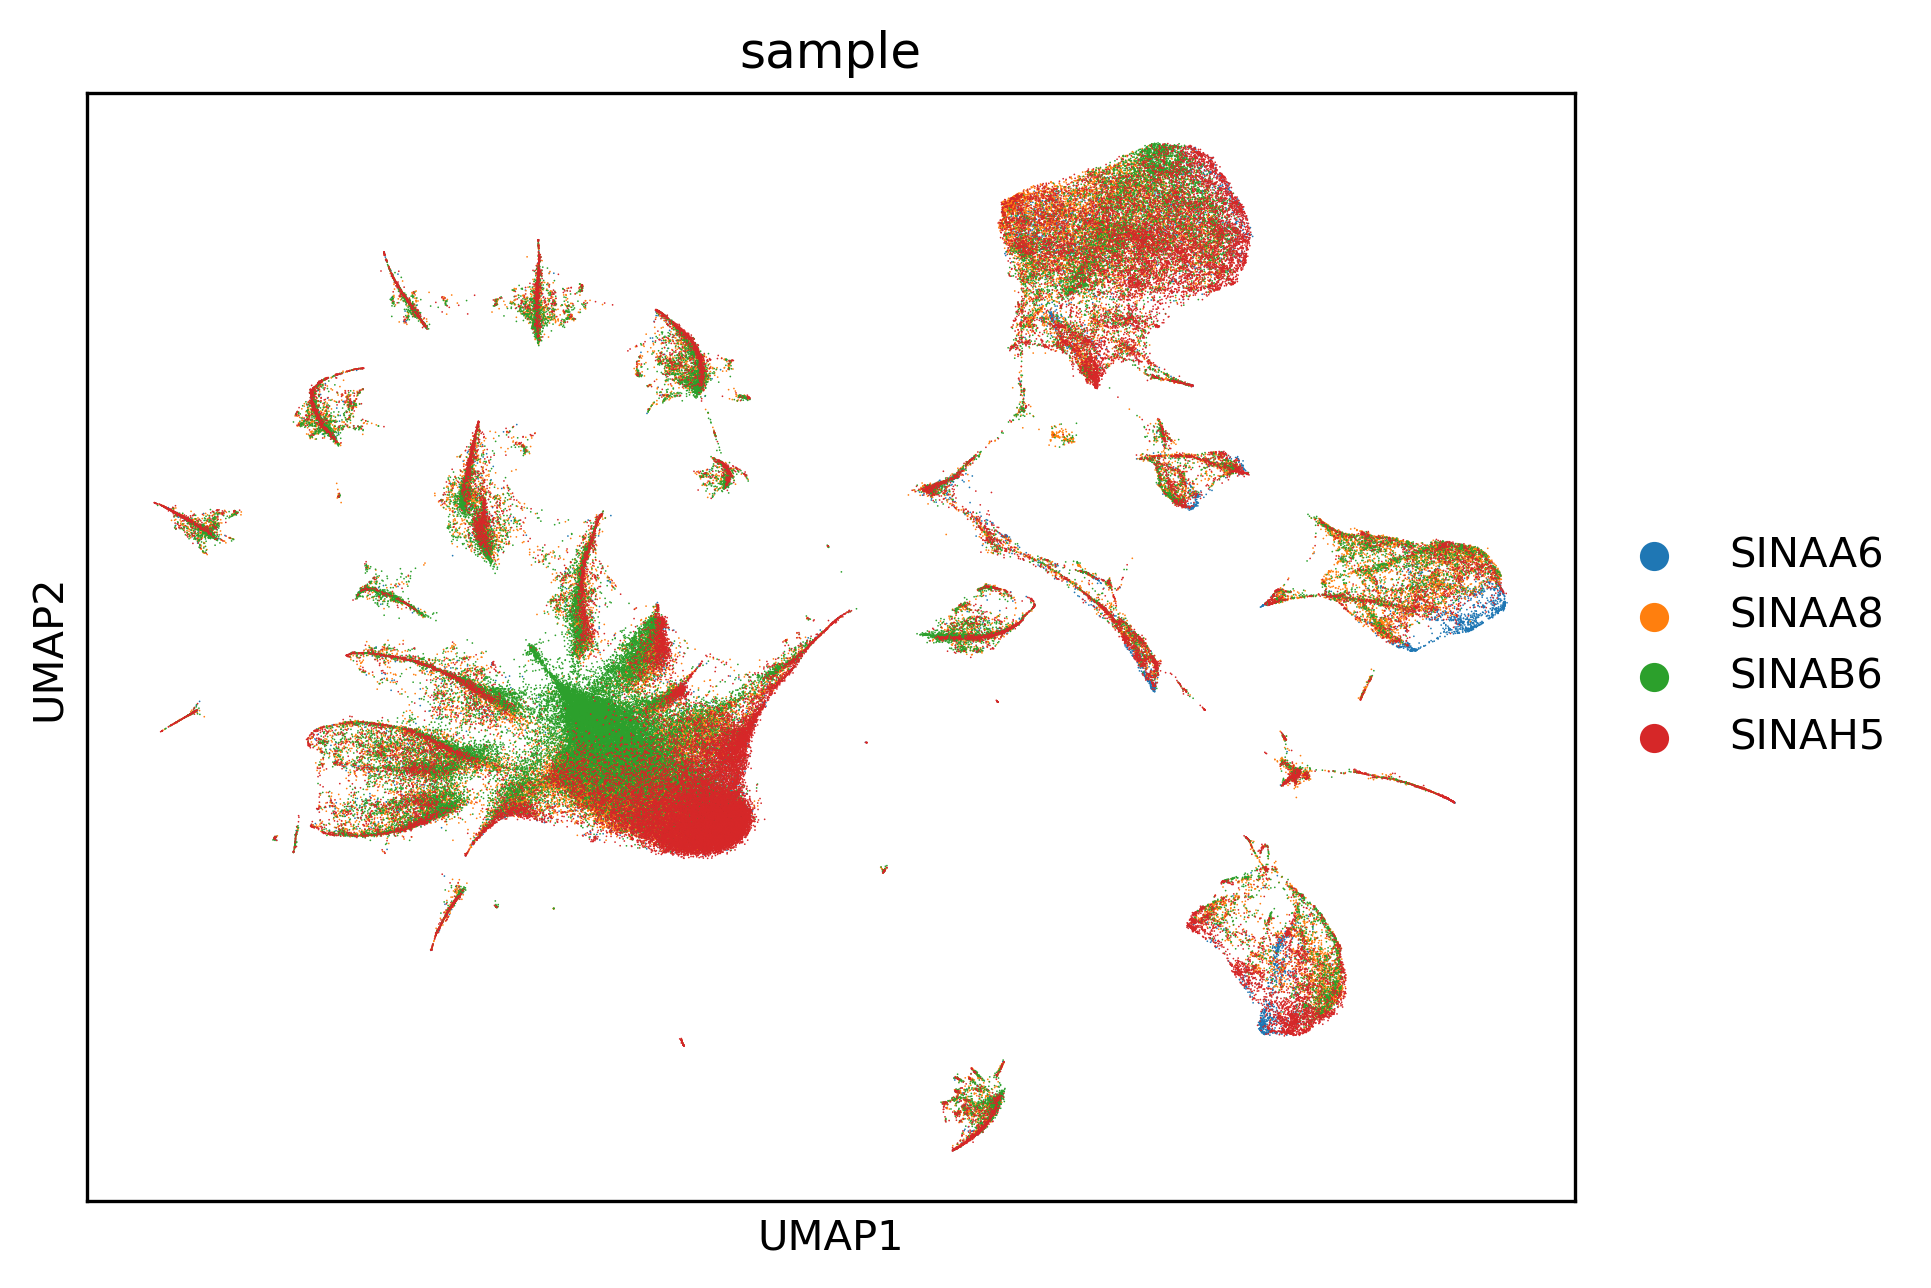
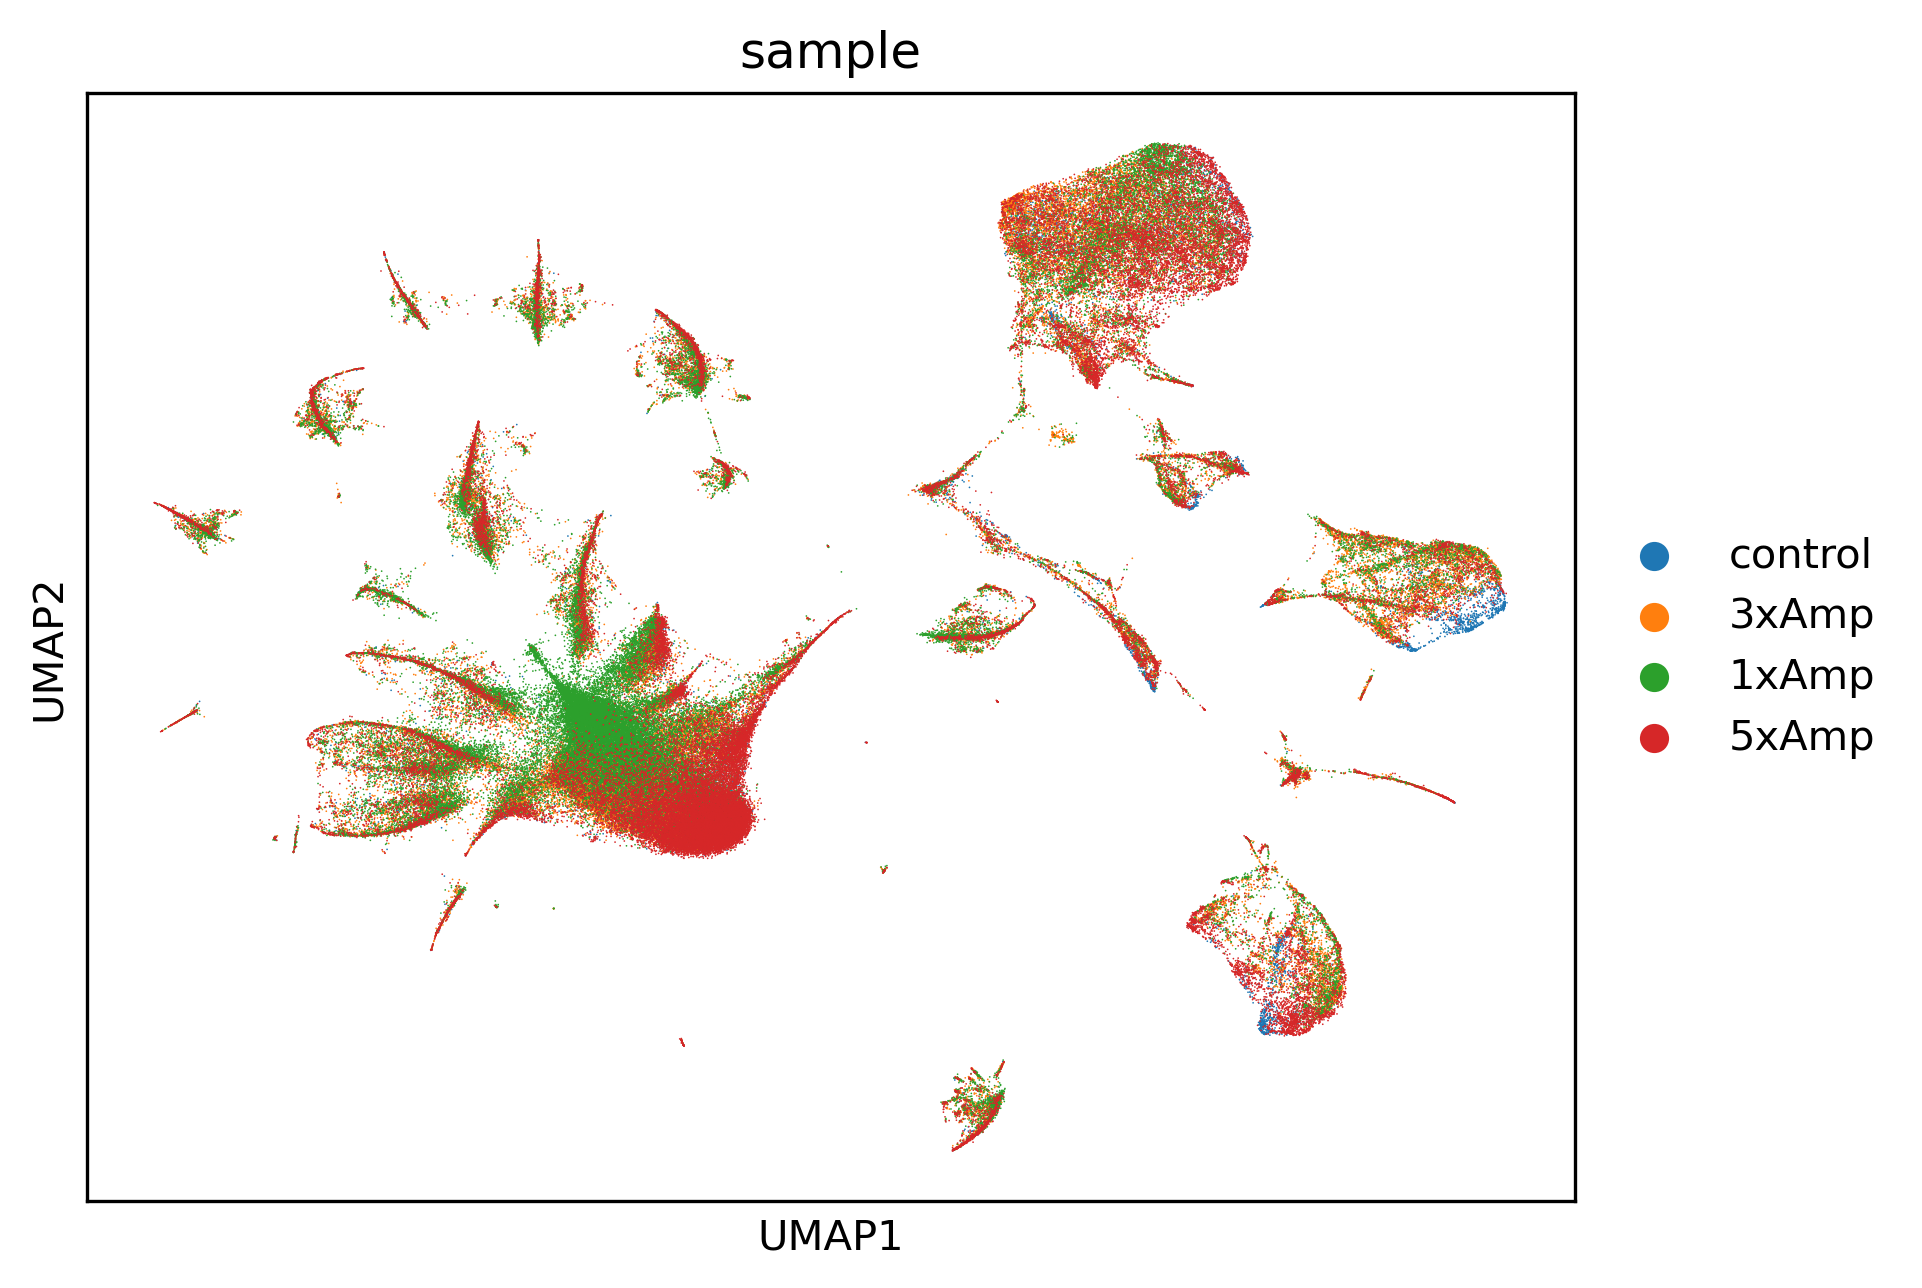
rename samples - update analysis and fix diffPeaks scripts

diff --git a/src/diffPeaks.py b/src/diffPeaks.py
@@ -15,7 +15,7 @@ def main():
     parser.add_argument("--output", required=True, help="Output h5ad file with diff test results")
     parser.add_argument("--group1", required=True, help="Group label (sample name or cluster)")
     parser.add_argument("--group2", required=True, help="Group label (sample name or cluster)")
-    parser.add_argument("--prefix", required=True, help="Prefix for output figures")
+    parser.add_argument("--prefix", required=True, help="Prefix for output figures and CSV files")
     parser.add_argument("--pval-cutoff", type=float, default=0.05, help="Adjusted p-value cutoff (default: 0.05)")
     parser.add_argument("--logfc-cutoff", type=float, default=0.5, help="Log2 fold change cutoff (default: 0.5)")
     args = parser.parse_args()
@@ -38,7 +38,7 @@ def main():
     print(f"Group1 ({args.group1}): {len(group1_idx)} cells")
     print(f"Group2 ({args.group2}): {len(group2_idx)} cells")
 
-    # Run differential test
+    # Run differential test (solver removed)
     print("Running differential accessibility test...")
     res = snap.tl.diff_test(
         adata,
@@ -48,26 +48,36 @@ def main():
         direction="both",
         min_log_fc=args.logfc_cutoff,
         min_pct=0.05
-        # solver removed
     )
 
-    # Store results in uns
-    adata.uns["diffPeaks"] = res
+    adata.uns["diff_test"] = res
+
+    # Save all results to CSV
+    res.write_csv(f"{args.prefix}_all_results.csv")
+    print(f"Saved all results to {args.prefix}_all_results.csv")
 
     # Generate volcano plot
     print("Generating volcano plot...")
     pval_cut = args.pval_cutoff
     logfc_cut = args.logfc_cutoff
 
-    # Use correct column names: 'pvalue_adj' and 'log2_fc'
-    res_sig = res[(res["pvalue_adj"] < pval_cut) & (np.abs(res["log2_fc"]) > logfc_cut)]
-    up = res_sig[res_sig["log2_fc"] > 0]
-    down = res_sig[res_sig["log2_fc"] < 0]
+    # Correct column names from SnapATAC2 tutorial
+    pval_col = "adjusted p-value"
+    logfc_col = "log2(fold_change)"
+
+    # Filter significant results
+    res_sig = res.filter((res[pval_col] < pval_cut) & (np.abs(res[logfc_col]) > logfc_cut))
+    up = res_sig.filter(res_sig[logfc_col] > 0)
+    down = res_sig.filter(res_sig[logfc_col] < 0)
+
+    # Save significant results to CSV
+    res_sig.write_csv(f"{args.prefix}_significant_results.csv")
+    print(f"Saved significant results to {args.prefix}_significant_results.csv")
 
     plt.figure(figsize=(8, 6))
-    plt.scatter(res["log2_fc"], -np.log10(res["pvalue_adj"]), s=2, alpha=0.3, color="gray")
-    plt.scatter(up["log2_fc"], -np.log10(up["pvalue_adj"]), s=2, alpha=0.7, color="red", label=f"Group1 ({args.group1})")
-    plt.scatter(down["log2_fc"], -np.log10(down["pvalue_adj"]), s=2, alpha=0.7, color="blue", label=f"Group2 ({args.group2})")
+    plt.scatter(res[logfc_col], -np.log10(res[pval_col]), s=2, alpha=0.3, color="gray")
+    plt.scatter(up[logfc_col], -np.log10(up[pval_col]), s=2, alpha=0.7, color="red", label=f"Group1 ({args.group1})")
+    plt.scatter(down[logfc_col], -np.log10(down[pval_col]), s=2, alpha=0.7, color="blue", label=f"Group2 ({args.group2})")
     plt.axhline(y=-np.log10(pval_cut), linestyle="--", color="black", alpha=0.5, label=f"p‑adj = {pval_cut}")
     plt.axvline(x=logfc_cut, linestyle="--", color="black", alpha=0.5)
     plt.axvline(x=-logfc_cut, linestyle="--", color="black", alpha=0.5)
@@ -81,7 +91,6 @@ def main():
     plt.close()
     print(f"Saved {outfile}")
 
-    # Save final object
     print(f"Saving object to {args.output}")
     adata.write(args.output)
     print("Done.")

diff --git a/src/renameSamples.py b/src/renameSamples.py
@@ -1,0 +1,39 @@
+#!/usr/bin/env python3
+
+import argparse
+import anndata as ad
+
+def main():
+    parser = argparse.ArgumentParser(
+        description="Rename samples in an AnnData object."
+    )
+    parser.add_argument("--input", required=True, help="Input h5ad file")
+    parser.add_argument("--output", required=True, help="Output h5ad file with renamed samples")
+    args = parser.parse_args()
+
+    print(f"Reading {args.input}...")
+    adata = ad.read_h5ad(args.input)
+
+    # Check if 'sample' column exists
+    if "sample" not in adata.obs.columns:
+        raise ValueError("Column 'sample' not found in adata.obs")
+
+    # Rename mapping
+    rename_map = {
+        "SINAA6": "control",
+        "SINAA8": "3xAmp",
+        "SINAB6": "1xAmp",
+        "SINAH5": "5xAmp"
+    }
+
+    # Apply renaming
+    adata.obs["sample"] = adata.obs["sample"].replace(rename_map)
+
+    print(f"Sample names updated. Unique samples: {adata.obs['sample'].unique().tolist()}")
+
+    print(f"Saving to {args.output}...")
+    adata.write(args.output, compression="gzip")
+    print("Done.")
+
+if __name__ == "__main__":
+    main()

diff --git a/README.md b/README.md
@@ -160,7 +160,7 @@ A total of **179,807 cells** were initially loaded. Doublets were identified usi
 - Similar accessibility patterns suggest that cells share similar **regulatory programs**, which can reflect the same cell type or biological state.
 - Clustering is a method to **identify these groups automatically** based on similarities in chromatin accessibility patterns.
 
-<img src="figures/analysis_umap_clusters.png?v=1" width="45%" /><img src="figures/analysis_umap_sample.png?v=1" width="45%" />
+<img src="figures/analysis_umap_clusters.png?v=1" width="45%" /><img src="figures/analysis_umap_sample.png?v=2" width="45%" />
 
 ### Check QC per cluster leiden 
 
